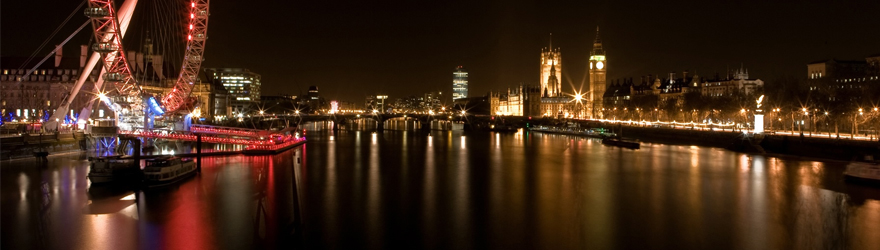
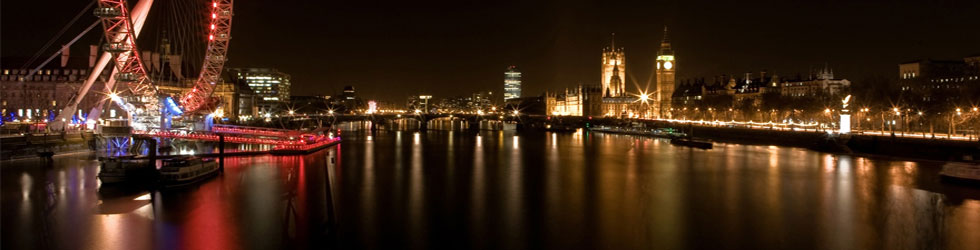
slideshow

diff --git a/style.css b/style.css
@@ -570,6 +570,10 @@ input.placeholder, textarea.placeholder, .wpcf7 .watermark { color: #b0b0b0; }
         .featured{
             overflow: hidden;
         }
+        .featured .item-slide{
+            width: 980px;
+            height: 250px;
+        }
     
     /* ---------------------------------------------------------------------- */
     /*  Portfolio

diff --git a/js/custom.js b/js/custom.js
@@ -45,7 +45,7 @@ jQuery(document).ready(function($) {
             delay: 3,
             pause:    1,  // pause on hover
             timeout: 3000,
-            slideExpr: '.img'
+            slideExpr: '.item-slide'
       });
     }); 
     /* ---------------------------------------------------------------------- */

diff --git a/header.php b/header.php
@@ -39,10 +39,16 @@
                 
            </div>
            <div class="featured" id="slideshow">
-                <div class="img"><img src="<?php bloginfo('template_url');?>/images/dev/slide_0007.jpg" width="980" height="250"/></div>
-                <div class="img"><img src="<?php bloginfo('template_url');?>/images/dev/slide_1018.jpg" width="980" height="250"/></div>
-                <div class="img"><img src="<?php bloginfo('template_url');?>/images/dev/slide_1026.jpg" width="980" height="250"/></div>
-                <div class="img"><img src="<?php bloginfo('template_url');?>/images/dev/slide_1038.jpg" width="980" height="250"/></div>
+                <?php $custom_slide = array('post_type'=>'slideshow');
+                      query_posts($custom_slide);
+                      while (have_posts()) : the_post(); 
+                      
+                      if ( has_post_thumbnail() ) {?>
+                      <div class="item-slide">
+                      <?php the_post_thumbnail('slideshow');?>
+                      </div>
+                      <?php }   
+                      endwhile; ?> 
            </div>
      </div>
 </section>

diff --git a/footer.php b/footer.php
@@ -1,26 +1,7 @@
 <section id="footer-cols">
          <div class="container">
          	   <?php get_sidebar('footer');?>
-	               <!--<ul>
-	               	   <li><a href="#">Home</a></li>
-	               	   <li><a href="#">About Us</a></li>
-	               	   <li><a href="#">Visa</a></li>
-	               </ul>
-	               <ul>
-	               	   <li><a href="#">Currency</a></li>
-	               	   <li><a href="#">Weather</a></li>
-	               	   <li><a href="#">Transportation</a></li>
-	               </ul>
-	               <ul>
-	               	   <li><a href="#">Accommodation</a></li>
-	               	   <li><a href="#">Festval Calendar</a></li>
-	               	   <li><a href="#">Tourism News</a></li>
-	               </ul>
-	               <ul>
-	               	   <li><a href="#">Tourism Places</a></li>
-	               	   <li><a href="#">Pictures</a></li>
-	               	   <li><a href="#">Contact Us</a></li>
-	               </ul>  -->
+	               
          </div>
 </section>
 <section id="footer-bottom">

diff --git a/sidebar.php b/sidebar.php
@@ -1,8 +1,8 @@
 <aside class="sidebar-right">
-<?php if(function_exists('dynamic_sidebar') && dynamic_sidebar('sidebar-righ')){ ?>
-         <h2 class="title-mod"><?php _e('Important Tips', 'sptheme'); ?></h2>
-         <?php dynamic_sidebar('sidebar-right');
+<h2 class="title-mod"><?php _e('Important Tips', 'sptheme'); ?></h2>
 
+<?php if(function_exists('dynamic_sidebar') && dynamic_sidebar('sidebar-right')){
+         
       }else{?>
          <div class="non-widget">
          <h3><?php _e('About This Sidebar', 'sptheme'); ?></h3>

diff --git a/sidebar-left.php b/sidebar-left.php
@@ -1,6 +1,7 @@
 <aside class="sidebar-left">
-<?php $sidebar_choice = get_post_meta($post->ID, 'sp_selected_sidebar', true); ?>
 <h2 class="title-mod"><?php _e('Other Events', 'sptheme'); ?></h2>
+<?php $sidebar_choice = get_post_meta($post->ID, 'sp_selected_sidebar', true); ?>
+
 <?php 
 if( ($sidebar_choice != "") && ($sidebar_choice != "sidebar-footer") && ($sidebar_choice != "sidebar-right") ) { 
 	if ( function_exists('dynamic_sidebar') && dynamic_sidebar($sidebar_choice) ) { } else {	

diff --git a/framework/functions/setup-theme.php b/framework/functions/setup-theme.php
@@ -44,8 +44,9 @@ if( !function_exists('sp_theme_setup') ) {
 		add_theme_support('post-thumbnails');
 
 		add_image_size( 'blog-post', 400, null, true );
+		add_image_size( 'slideshow', 980, 250, true);
 		add_image_size( 'blog-post-thumb', 135, null, true );
-		add_image_size( 'fullwidth', 880, null, true );
+		add_image_size( 'fullwidth', 980, null, true );
 		
 		
 		// Add support for post formats
